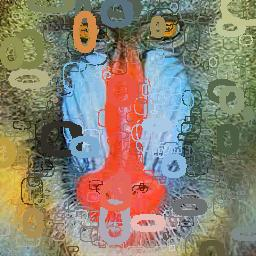
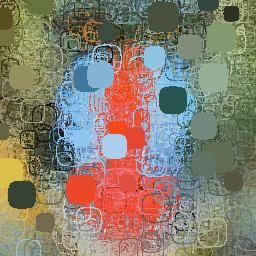
doc: delete dense

diff --git a/docs/config-rule.md b/docs/config-rule.md
@@ -107,13 +107,12 @@ PARAM:
 
 #### パラメータ一覧
 
-| パラメータ名 | 説明                               | デフォルト値 | 備考                   |
-| :----------- | :--------------------------------- | :----------- | ---------------------- |
-| `IMAGE`      | 使用画像の`KEY`                    | ---          |                        |
-| `BLOB_NUM`   | Blob の数                          | 100          |                        |
-| `RADIUS`     | Blob の半径                        | ---          |                        |
-| `DENSE`      | 各 Blob 描画のためのプロットの個数 | ---          | 大きいほど描画速度低下 |
-| `THICKNESS`  | Blob の太さ                        | ---          |                        |
+| パラメータ名 | 説明            | デフォルト値 | 備考 |
+| :----------- | :-------------- | :----------- | ---- |
+| `IMAGE`      | 使用画像の`KEY` | ---          |      |
+| `BLOB_NUM`   | Blob の数       | 100          |      |
+| `RADIUS`     | Blob の半径     | ---          |      |
+| `THICKNESS`  | Blob の太さ     | ---          |      |
 
 #### 設定例
 
@@ -128,9 +127,6 @@ PARAM:
   RADIUS:
     MIN: 5
     MAX: 30
-  DENSE:
-    MIN: 10
-    MAX: 50
   THICKNESS:
     MIN: 1
     MAX: 3
@@ -211,9 +207,6 @@ PARAM:
         RADIUS:
           MIN: 5
           MAX: 30
-        DENSE:
-          MIN: 10
-          MAX: 50
         THICKNESS:
           MIN: 1
           MAX: 3
@@ -225,9 +218,6 @@ PARAM:
         RADIUS:
           MIN: 20
           MAX: 30
-        DENSE:
-          MIN: 10
-          MAX: 100
         THICKNESS:
           MIN: 5
           MAX: 10
